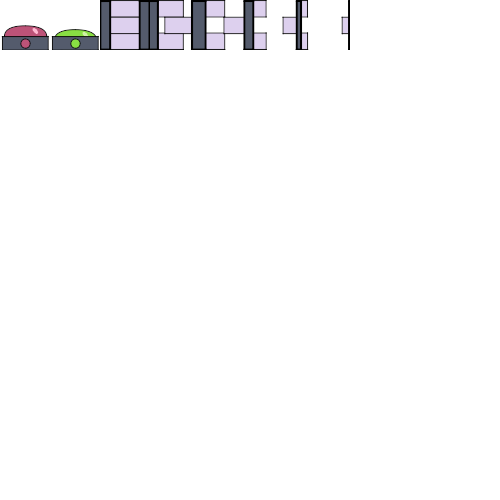
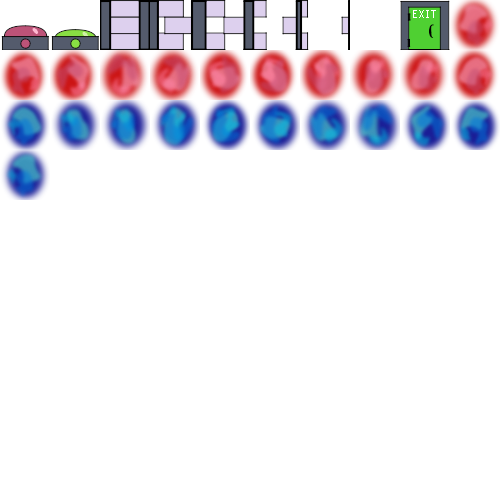
ftr(Graphics): add portal animation

Changed region(s): [[0.0, 0.0, 1.0, 0.42]]

diff --git a/parallelWorlds/src/scenes/Game.js b/parallelWorlds/src/scenes/Game.js
@@ -143,5 +143,19 @@ export default class Game extends Phaser.Scene {
             repeat: -1,
             yoyo: true
         });
+
+        me.anims.create({
+            key: 'portal_red',
+            frames: me.anims.generateFrameNames('items', { frames: [ 9, 10, 11, 12, 13, 14, 15, 16, 17, 18, 19 ]}),
+            frameRate: 20,
+            repeat: -1
+        });
+
+        me.anims.create({
+            key: 'portal_blue',
+            frames: me.anims.generateFrameNames('items', { frames: [ 25, 26, 27, 28, 29, 30, 20, 21, 22, 23, 24,  ]}),
+            frameRate: 20,
+            repeat: -1
+        });
     }
 }

diff --git a/parallelWorlds/src/game/Entities/Portal.js b/parallelWorlds/src/game/Entities/Portal.js
@@ -22,6 +22,9 @@ export default class Portal extends BaseEntity {
         me.toFuture = toFuture;
 
         const sprite = group.create(x, y, 'sprites', toFuture ? 8 : 9);
+        sprite.play(toFuture ? 'portal_red' : 'portal_blue');
+        sprite.setFlipX(!toFuture);
+        
         me._initOrigin(sprite);
     }    
 }

diff --git a/parallelWorlds/src/game/Entities/Entities.js b/parallelWorlds/src/game/Entities/Entities.js
@@ -71,7 +71,7 @@ export default class Entities {
 
         me.exits = scene.physics.add.staticGroup();
         me._build(config.exits, (cfg) => {
-            me.exits.create(cfg.x, cfg.y, 'sprites', 11);
+            me.exits.create(cfg.x, cfg.y, 'items', 8);
         });
 
         me.turrets = scene.add.group();
